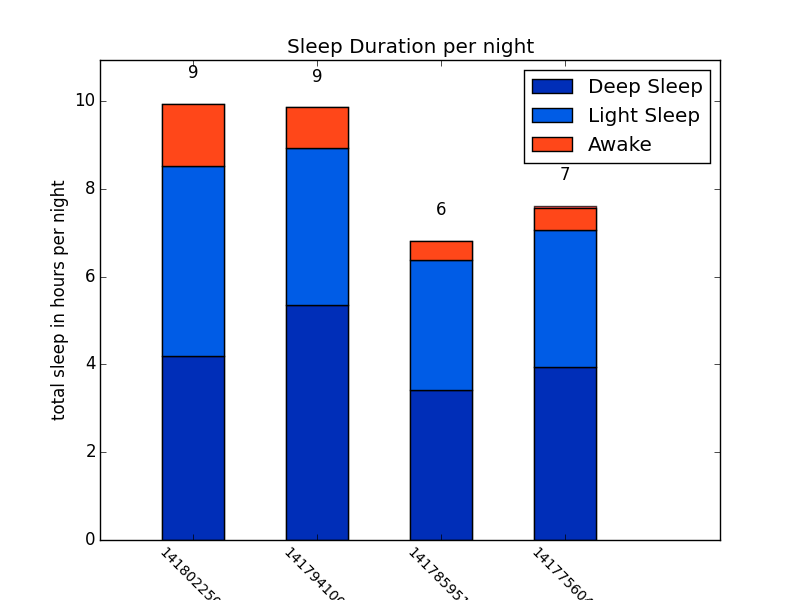
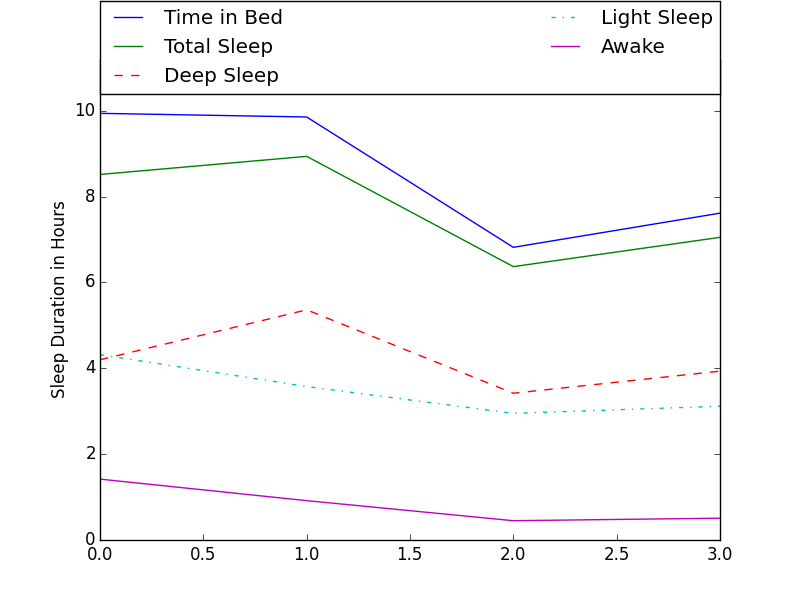
differentiate deep_sleep and time_in_bed

diff --git a/main.py b/main.py
@@ -30,7 +30,7 @@ def plot_from_csv():
         labels.append(str(row[1].month) + "/" + str(row[1].day))
 
     #plot_bar_chart(total_times, deep_times, light_times, awake_times, labels)
-    plot_line_graph(total_times, deep_times, light_times, awake_times, labels)
+    plot_line_graph(total_times, total_times, deep_times, light_times, awake_times, labels)
 
 
 def plot_from_json():
@@ -38,7 +38,8 @@ def plot_from_json():
     data = json.load(json_data)
     items = data['data']['items']
 
-    total_times = []
+    time_in_bed = []
+    total_sleep = []
     deep_times = []
     light_times = []
     awake_times = []
@@ -47,13 +48,17 @@ def plot_from_json():
     for item in items:
         labels.append(item['time_completed'])
         item = item['details']
-        total_times.append(to_hours(item['duration']))
-        deep_times.append(to_hours(item['sound']))
-        light_times.append(to_hours(item['light']))
+        time_in_bed.append(to_hours(item['duration']))
+
+        sound = to_hours(item['sound'])
+        light = to_hours(item['light'])
+        total_sleep.append(sound + light)
+        deep_times.append(sound)
+        light_times.append(light)
         awake_times.append(to_hours(item['awake']))
 
-    plot_line_graph(total_times, deep_times, light_times, awake_times)
-    plot_bar_chart(total_times, deep_times, light_times, awake_times, labels)
+    plot_line_graph(time_in_bed, total_sleep, deep_times, light_times, awake_times)
+    #plot_bar_chart(total_sleep, deep_times, light_times, awake_times, labels)
     json_data.close()
 
 if __name__ == '__main__':

diff --git a/plotter.py b/plotter.py
@@ -58,7 +58,7 @@ def plot_bar_chart(total_sleep, deep_sleep, light_sleep, no_sleep, labels=[]):
         print("no data was found")
 
 
-def plot_line_graph(total_sleep, deep_sleep, light_sleep, no_sleep, labels=[]):
+def plot_line_graph(time_in_bed, total_sleep, deep_sleep, light_sleep, no_sleep, labels=[]):
     """
     create a line graph with total sleep,
     deep sleep, light sleep and awake time
@@ -70,16 +70,16 @@ def plot_line_graph(total_sleep, deep_sleep, light_sleep, no_sleep, labels=[]):
     :return:
     """
     ax = plt.subplot(111)
+    line_in_bed, = plt.plot(time_in_bed, label='Time in Bed')
     line_total, = plt.plot(total_sleep, label='Total Sleep')
     line_deep, = plt.plot(deep_sleep, label='Deep Sleep', linestyle='--')
     line_light, = plt.plot(light_sleep, label='Light Sleep', linestyle='-.')
     line_awake, = plt.plot(no_sleep, label='Awake')
-    #plt.legend(handles=[line_total, line_deep, line_light, line_awake])
+    #plt.legend(handles=[line_in_bed, line_total, line_deep, line_light, line_awake])
     plt.legend(bbox_to_anchor=(0., 1.02, 1., .102), loc=1,
            ncol=2, mode="expand", borderaxespad=0.)
     plt.ylabel('Sleep Duration in Hours')
 
     # set ylim to max total_sleep + 10%
-    plt.ylim(0, max(total_sleep) + (max(total_sleep) / 10))
+    plt.ylim(0, max(time_in_bed) + (max(time_in_bed) / 8))
     plt.show()
-    print("daym")
